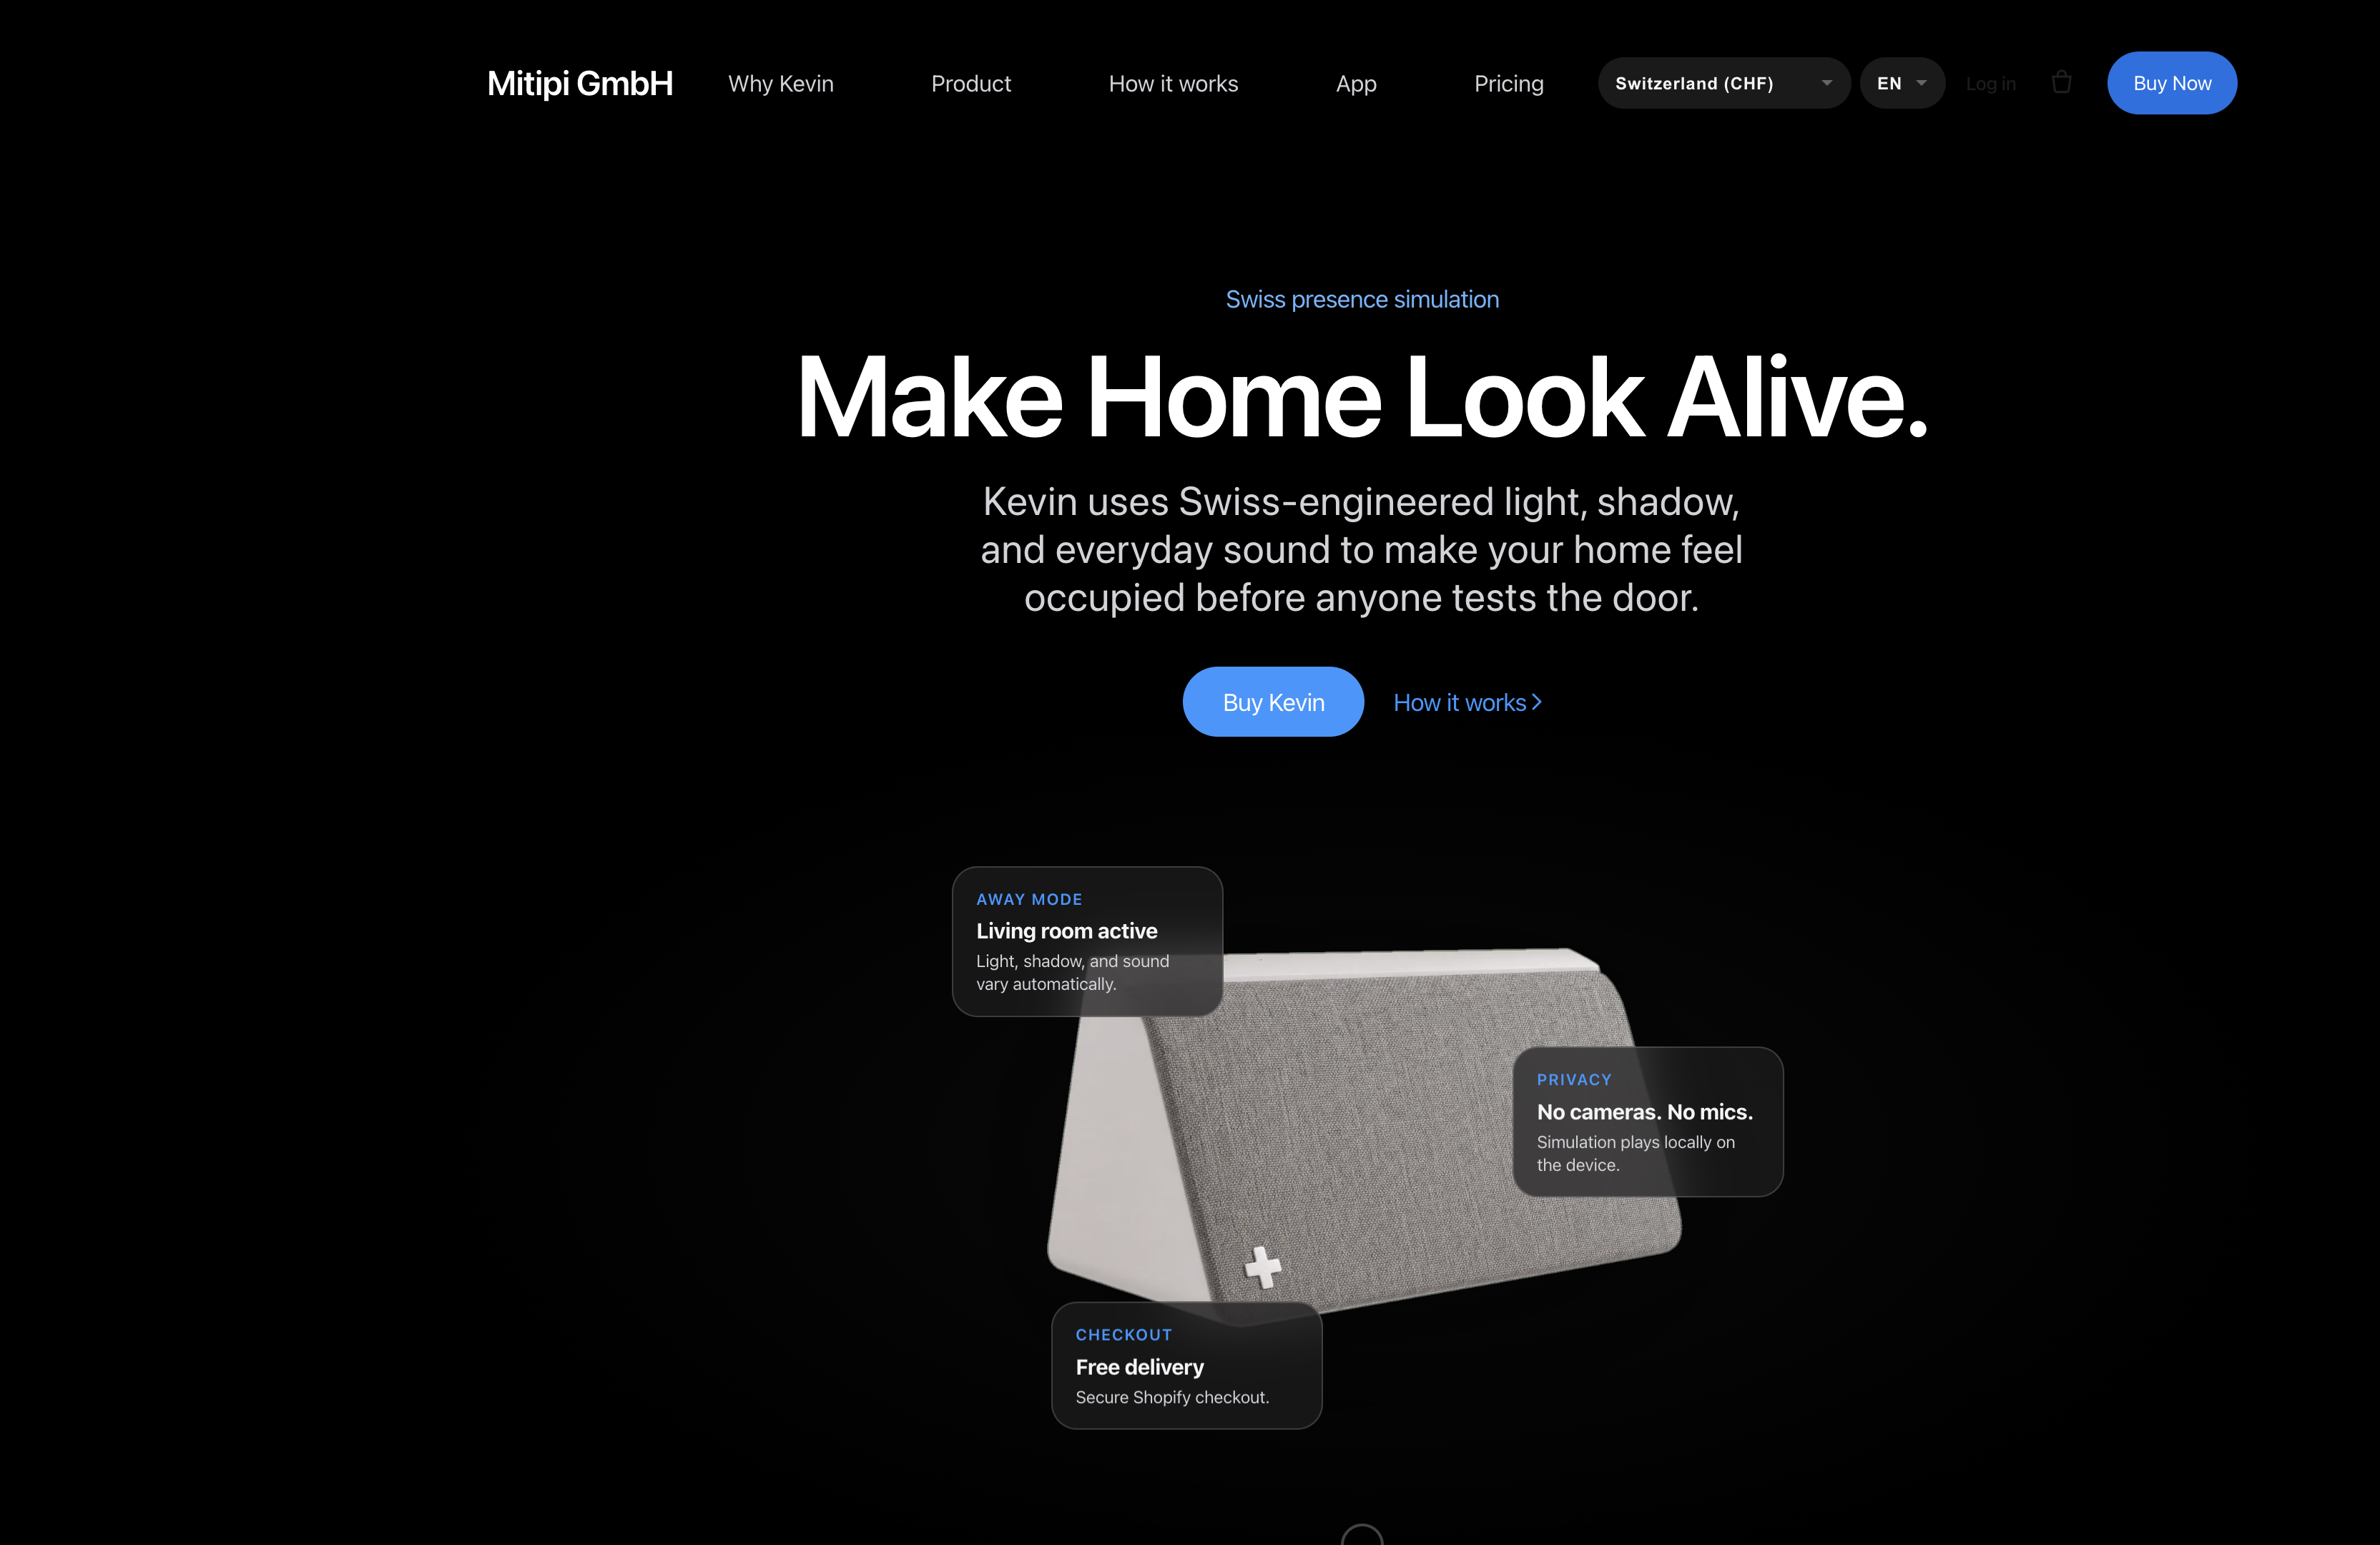
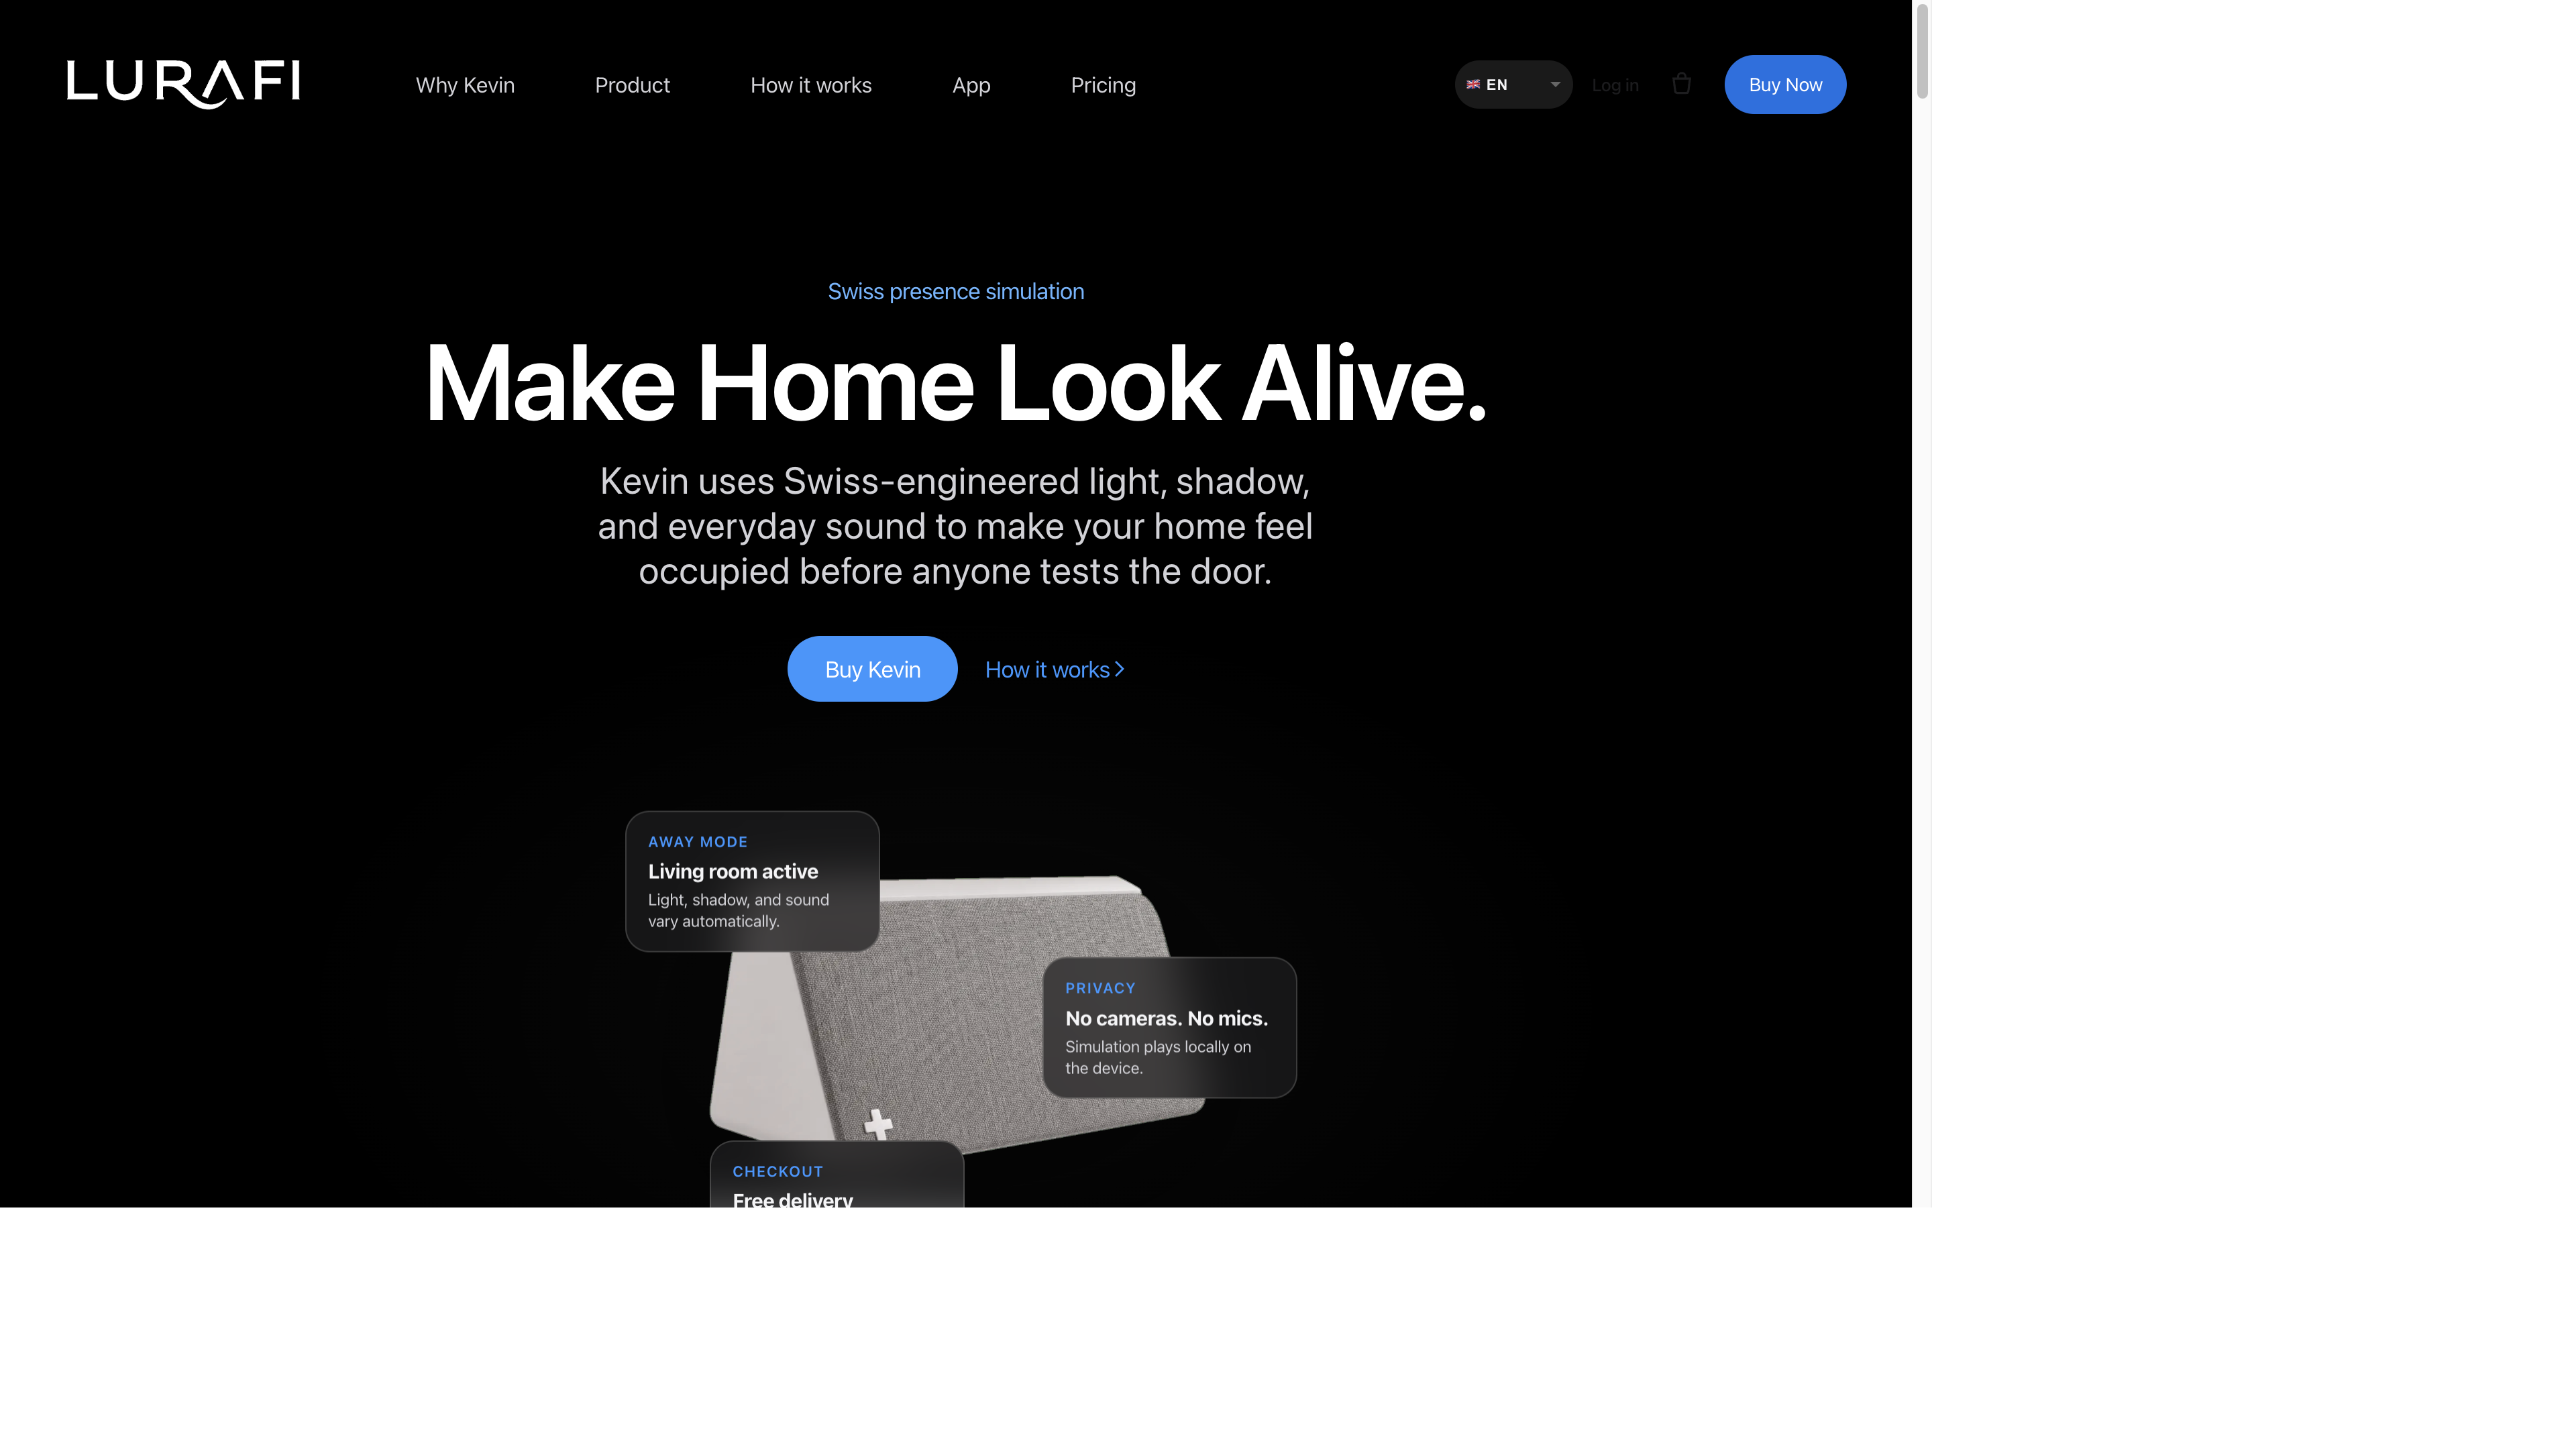
docs(design): refresh lovable export for current lurafi theme

diff --git a/design/lovable-export/components/site-header.tsx b/design/lovable-export/components/site-header.tsx
@@ -1,6 +1,10 @@
 /**
  * Reference component — matches sections/header.liquid
+ * Language-only selector (no country/currency). LURAFI wordmark logo.
  */
+
+const CONFIGURE_BUY_URL = 'https://www.lurafi.com/pages/configure?plan=buy'
+const LOGO_SRC = '/assets/lurafi-logo.png'
 
 const NAV = [
   { label: 'Why Kevin', href: '#problem' },
@@ -10,80 +14,102 @@ const NAV = [
   { label: 'Pricing', href: '#pricing' },
 ]
 
+const LANGUAGES = [
+  { value: 'en', label: '🇬🇧 EN' },
+  { value: 'nl', label: '🇳🇱 NL' },
+  { value: 'fr', label: '🇫🇷 FR' },
+  { value: 'de', label: '🇩🇪 DE' },
+  { value: 'cs', label: '🇨🇿 CS' },
+]
+
 export function SiteHeader() {
   return (
     <header
-      className="fixed inset-x-0 top-0 z-50 bg-transparent"
+      className="fixed inset-x-0 top-0 z-50 bg-transparent pt-[calc(env(safe-area-inset-top,0px)+clamp(10px,2vw,14px))]"
       role="banner"
       data-theme="dark"
     >
-      <div className="mx-auto grid max-w-[1440px] grid-cols-[auto_1fr_auto] items-center gap-3 px-4 py-3 md:px-6 lg:grid-cols-[auto_auto_auto_1fr_auto] lg:gap-0 lg:px-7">
+      <div className="mx-auto grid w-full max-w-[1440px] grid-cols-[max-content_minmax(0,1fr)] items-center gap-4 px-[clamp(16px,4vw,24px)] py-2.5 min-[1440px]:grid-cols-[max-content_minmax(0,1fr)_minmax(11.75rem,max-content)] min-[1440px]:gap-[clamp(32px,4vw,72px)]">
+        {/* Zone 1: Brand */}
         <a
           href="/"
-          className="truncate text-[clamp(1.1875rem,4.5vw,1.3125rem)] font-semibold text-white lg:max-w-[12rem]"
+          className="inline-flex min-h-12 min-w-12 items-center justify-start"
+          aria-label="LURAFI home"
         >
-          Mitipi GmbH
+          <img
+            src={LOGO_SRC}
+            alt="LURAFI"
+            width={95}
+            height={26}
+            className="h-[26px] w-[calc(26px*3.645)] max-w-none object-contain object-left brightness-0 invert min-[768px]:h-[34px] min-[768px]:w-[calc(34px*3.645)] min-[1440px]:h-10 min-[1440px]:w-[calc(40px*3.645)]"
+          />
         </a>
 
-        <div className="hidden h-px w-full bg-white/20 lg:block" aria-hidden />
-
+        {/* Zone 2: Nav (inline @1440px+) */}
         <nav
-          className="hidden items-center gap-5 lg:flex"
+          className="hidden min-w-0 items-center gap-[clamp(12px,1.6vw,32px)] min-[1440px]:flex"
           aria-label="Main navigation"
         >
           {NAV.map((item) => (
             <a
               key={item.href}
               href={item.href}
-              className="min-h-[44px] px-2 py-2 text-[0.9375rem] text-[#d2d2d7] transition hover:text-white"
+              className="inline-flex min-h-11 items-center whitespace-nowrap px-3.5 py-3 text-[0.9375rem] text-[#d2d2d7] transition hover:bg-white/8 hover:text-white min-[1440px]:text-base"
             >
               {item.label}
             </a>
           ))}
         </nav>
 
-        <div className="col-start-3 flex items-center gap-2 lg:col-start-5 lg:gap-3">
-          <select
-            aria-label="Country / region"
-            className="hidden min-h-[36px] max-w-full appearance-none rounded-full border-0 bg-white/10 px-3 py-1.5 text-xs font-semibold tracking-wide text-[#f5f5f7] sm:block"
-            defaultValue="CH"
-          >
-            <option value="CH">Switzerland (CHF)</option>
-            <option value="DE">Germany (EUR)</option>
-          </select>
+        {/* Zone 3: Utilities */}
+        <div className="col-start-2 row-start-1 flex items-center justify-end gap-1.5 min-[768px]:gap-2 min-[1440px]:col-start-3 min-[1440px]:gap-[clamp(8px,1vw,14px)]">
           <select
             aria-label="Language"
-            className="min-h-[36px] appearance-none rounded-full border-0 bg-white/10 px-3 py-1.5 text-xs font-semibold tracking-wide text-[#f5f5f7]"
+            className="hidden min-h-9 max-w-[6.75rem] appearance-none rounded-full border-0 bg-white/10 px-2.5 py-1.5 text-[11px] font-semibold tracking-wide text-[#f5f5f7] min-[768px]:block min-[768px]:max-w-none min-[768px]:px-3 min-[768px]:text-xs"
             defaultValue="en"
           >
-            <option value="en">EN</option>
-            <option value="nl">NL</option>
+            {LANGUAGES.map((lang) => (
+              <option key={lang.value} value={lang.value}>
+                {lang.label}
+              </option>
+            ))}
           </select>
+
           <a
             href="/login"
-            className="hidden min-h-[44px] items-center text-sm text-[#d2d2d7] hover:text-white md:inline-flex"
+            className="hidden min-h-11 items-center text-[13px] font-medium text-[#d2d2d7] opacity-90 hover:opacity-100 hover:underline min-[1440px]:inline-flex"
           >
             Log in
           </a>
+
+          <a
+            href={CONFIGURE_BUY_URL}
+            className="inline-flex min-h-11 items-center justify-center rounded-full bg-[#0071e3] px-4 py-2.5 text-sm text-white hover:bg-[#0077ed] max-[479px]:hidden min-[768px]:hidden min-[1440px]:inline-flex"
+          >
+            Buy
+          </a>
+
           <button
             type="button"
             aria-label="Cart, 0 items"
-            className="inline-flex min-h-[44px] min-w-[44px] items-center justify-center text-[#d2d2d7]"
+            className="inline-flex min-h-11 min-w-11 items-center justify-center text-[#d2d2d7]"
           >
             <svg width="18" height="18" viewBox="0 0 18 18" fill="none" stroke="currentColor" strokeWidth="1.4" aria-hidden>
               <path d="M3.5 5h11l-1.1 8.4a1.5 1.5 0 0 1-1.5 1.3H6.1a1.5 1.5 0 0 1-1.5-1.3L3.5 5z" />
               <path d="M6.5 5V3.75a2.5 2.5 0 0 1 5 0V5" />
             </svg>
           </button>
+
           <a
-            href="#pricing"
-            className="inline-flex min-h-[44px] items-center justify-center rounded-full bg-[#0071e3] px-[18px] py-2.5 text-sm text-white hover:bg-[#0077ed]"
+            href={CONFIGURE_BUY_URL}
+            className="hidden min-h-11 items-center justify-center rounded-full bg-[#0071e3] px-[18px] py-2.5 text-sm text-white hover:bg-[#0077ed] min-[1440px]:inline-flex"
           >
             Buy Now
           </a>
+
           <button
             type="button"
-            className="inline-flex min-h-[44px] min-w-[44px] flex-col items-center justify-center gap-1 lg:hidden"
+            className="inline-flex min-h-11 min-w-11 flex-col items-center justify-center gap-1 min-[1440px]:hidden"
             aria-label="Open menu"
           >
             <span className="block h-0.5 w-5 bg-white" />

diff --git a/design/lovable-export/LOVABLE-PROMPT.md b/design/lovable-export/LOVABLE-PROMPT.md
@@ -17,14 +17,34 @@ Use these tokens (from `TOKENS.json`):
 - **Container:** max 980px centered, section padding `clamp(52px, 8vw, 92px)`
 - **Buttons:** pill-shaped (border-radius 980px), min-height 44px
 - **Tiles:** 20px radius, 12px grid gap
-- **Breakpoints:** mobile-first, `md:768px`, `lg:1024px`
+- **Breakpoints:** mobile-first, `md:768px`, `lg:1024px`, inline nav @1440px
+
+## Header (critical — match live site)
+
+**3-zone layout at 1440px+:** brand (left) | nav links (center, flex 1) | utilities (right).
+
+- **Logo:** LURAFI wordmark image (`assets/lurafi-logo.png`), NOT "Mitipi GmbH" text. Invert to white on dark hero header.
+- **Nav:** Why Kevin, Product, How it works, App, Pricing — anchor links.
+- **Utilities:** language selector, Log in, cart icon, blue "Buy Now" pill.
+- **Language only:** pill select with flag labels — 🇬🇧 EN, 🇳🇱 NL, 🇫🇷 FR, 🇩🇪 DE, 🇨🇿 CS. **Never add a country/currency/region selector.**
+- **No divider** between logo and nav.
+- Mobile/tablet (<1440px): hamburger drawer for nav; language pill stays in header bar from 768px+.
+- Sticky header: transparent dark over hero → frosted light below on scroll.
+
+## CTA URLs
+
+All primary buy CTAs link to:
+
+`https://www.lurafi.com/pages/configure?plan=buy`
+
+Secondary "How it works" → `#how-it-works`. Pricing section cards use the same configure URL.
 
 ## Pages to build
 
 Single long-scroll landing page with these sections in order:
 
-1. **Header** — transparent dark theme over hero. Logo "Mitipi GmbH", nav: Why Kevin, Product, How it works, App, Pricing. Right: country selector (Switzerland CHF), language EN, Log in, cart icon, blue "Buy Now" pill.
-2. **Hero** — full viewport black. Overline "Swiss presence simulation" in light blue. H1 "Make Home Look Alive." Subhead about Swiss-engineered light/shadow/sound. CTAs: "Buy Kevin" (blue pill) + "How it works" link with chevron. Center product image (wedge speaker device). Three floating glass cards: Away mode, Privacy, Checkout.
+1. **Header** — see above.
+2. **Hero** — full viewport black. Overline "Swiss presence simulation" in light blue. H1 "Make Home Look Alive." Subhead about Swiss-engineered light/shadow/sound. CTAs: "Buy Kevin" (configure URL) + "How it works" link with chevron. Center product image (wedge speaker device). Three floating glass cards: Away mode, Privacy, Checkout.
 3. **Problem** — "Empty is an invitation." 3 gray tiles: Alarms react, Cameras record, Lights are predictable.
 4. **Solution** — "Deterrence that feels human." 3 pillars + product image.
 5. **Steps** — "Plug in. Set routines. Leave calmly." 3 numbered steps + stats row (60s setup, 1 wire, 100% privacy, 24/7).
@@ -35,7 +55,7 @@ Single long-scroll landing page with these sections in order:
 10. **Pricing** — two cards side by side: Kevin CHF 609 one-time (gray) vs Kevin+ CHF 13/mo subscription (dark card).
 11. **Specs** — "Designed to be simple, private, and portable." spec table.
 12. **Final CTA** — "Leave without advertising it." Buy + Learn more.
-13. **Footer** — 4 columns: Product, Company, Support, Where to Buy. Copyright Mitipi GmbH.
+13. **Footer** — disclaimer note, 4 columns (Product, Company, Support, Where to Buy), copyright Mitipi GmbH, Privacy/Terms links.
 
 ## Copy source
 
@@ -43,6 +63,7 @@ Use exact copy from attached `content-home-en.json`.
 
 ## Images
 
+- Logo: `assets/lurafi-logo.png` (933×256 PNG, invert on dark header)
 - Hero device: `https://d2xsxph8kpxj0f.cloudfront.net/310519663143838195/XAqmtb4V6fmS5cL6eq54xv/lurafi-device-angle-transparent-feBmUBJ5mWe9dTyXfTHnUU.webp`
 - App mockups: iphone-mockup + schedule-mockup URLs in DESIGN-SPEC.md
 

diff --git a/design/lovable-export/DESIGN-SPEC.md b/design/lovable-export/DESIGN-SPEC.md
@@ -9,7 +9,7 @@
 - **Product:** Kevin — Swiss-engineered home presence simulator (light, shadow, sound)
 - **Company:** Mitipi GmbH (shop name on storefront)
 - **Tone:** Apple.com-inspired — minimal, confident, privacy-first, premium hardware
-- **Primary conversion:** Buy Kevin / Configure → Shopify checkout
+- **Primary conversion:** Buy Kevin / Configure → `https://www.lurafi.com/pages/configure?plan=buy`
 
 ## Design system (Apple-inspired)
 
@@ -84,16 +84,20 @@ Order from `templates/index.json`:
 
 ### Header (`header.liquid`)
 
-- `data-theme="dark"` on hero (transparent over black)
-- Logo | divider | nav links | utilities (lang, login, cart, Buy Now)
-- Mobile: hamburger → slide-in panel with grouped links
+- `data-theme="dark"` on hero (transparent over black); frosted light bar after scroll
+- **3-zone layout @1440px+:** LURAFI wordmark logo | nav links (flex 1) | utilities
+- Logo: `lurafi-logo.png` image (933×256), inverted white on dark header — not text
+- **No divider** between logo and nav
+- Utilities: language-only selector, Log in (@1440px+), cart, Buy Now
+- Mobile/tablet (<1440px): hamburger → slide-in panel with grouped links
 - Sticky offset: `--header-offset` accounts for safe area
 
 ### Language selector (`language-selector.liquid`)
 
-- Country dropdown (Markets): CH, DE, FR, IE, NL, CZ
-- Language pills: EN, NL, FR, DE, CS
-- Pill selects: 36px min-height, 999px radius, translucent on dark header
+- **Language only** — no country/currency/region selector (permanent merchant policy)
+- Flag labels: 🇬🇧 EN, 🇳🇱 NL, 🇫🇷 FR, 🇩🇪 DE, 🇨🇿 CS
+- Pill select: 36px min-height, 999px radius, translucent on dark header
+- Mobile: compact pill in header bar; full control also in mobile drawer
 
 ### Hero
 
@@ -118,7 +122,10 @@ Order from `templates/index.json`:
 
 ### Footer
 
-- Disclaimer note, 4-column link grid, copyright + legal links
+- Disclaimer note (`footer.note`), 4-column link grid (Product, Company, Support, Where to Buy)
+- Configure link → `/pages/configure?plan=buy`
+- Copyright: `Copyright © {{ year }} {{ shop_name }}. All rights reserved.` (Mitipi GmbH)
+- Legal links: Privacy Policy, Terms of Use, optional LLM summary
 
 ## Content copy (EN)
 